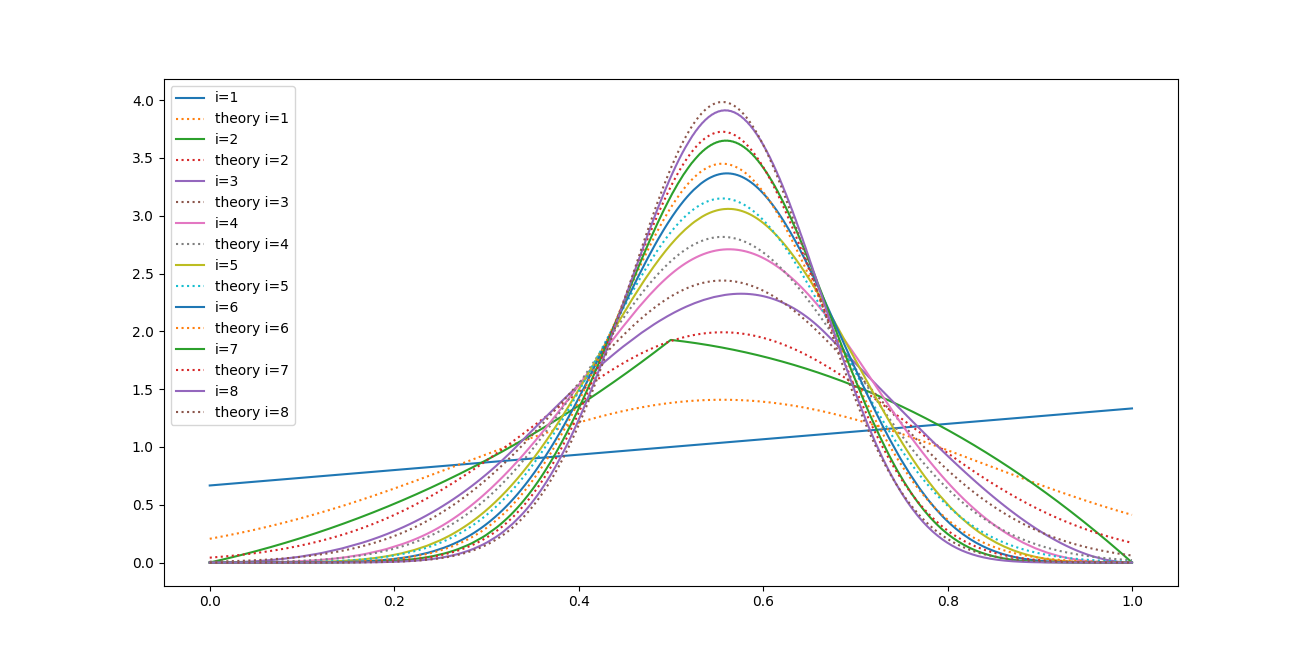
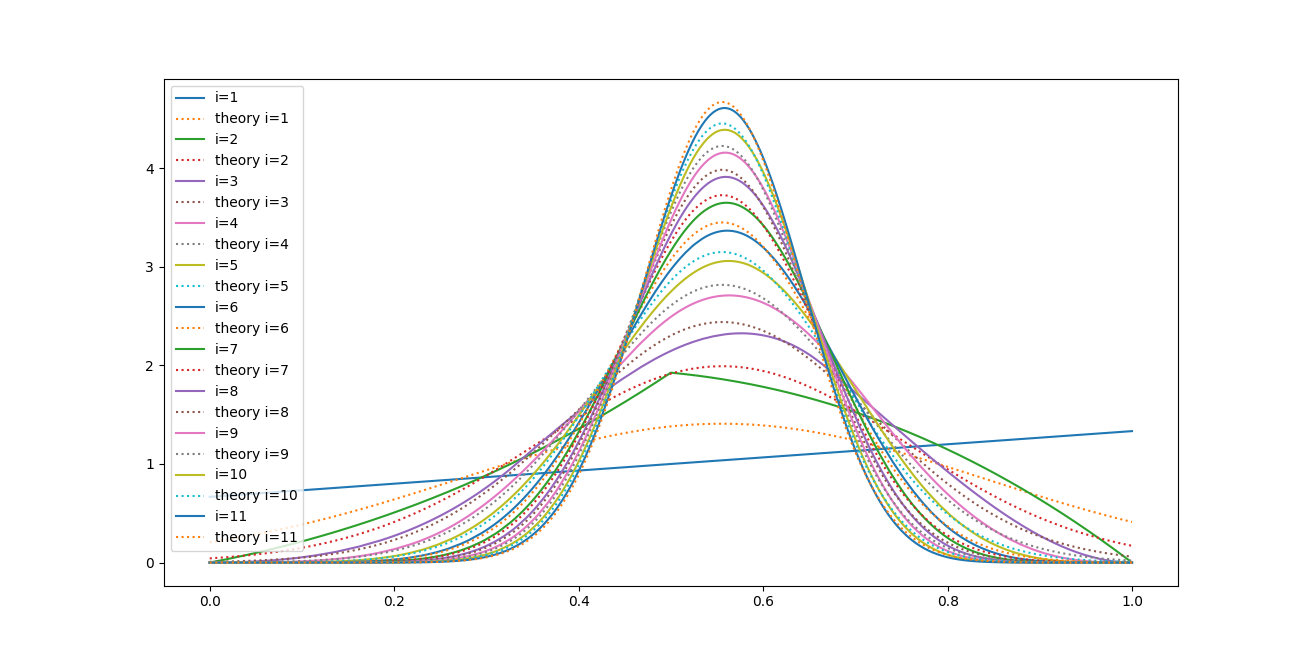
improving precision and going bit further as well

diff --git a/main_dist_integral.py b/main_dist_integral.py
@@ -2,10 +2,10 @@ import numpy as np
 import random
 import matplotlib.pyplot as plt
 
-N = 2000
+N = 5000
 NN = N+0.0
 
-M = 7
+M = 10
 
 x_base = np.array([i / NN for i in range(N)])
 t = [1.0 +(i+1.0)/(N+0.0) for i in range(N)]
